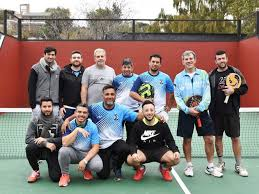
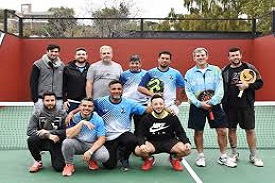
Centrando imagenes

diff --git a/styles/nosotros.css b/styles/nosotros.css
@@ -9,10 +9,8 @@ body {
 }
 
 .container {
-
   max-width: 960px;
-  margin: 0 auto;
-  margin-top: 60px;
+  margin: 60px auto 0 auto;
   padding: 20px;
   background-color: rgba(0, 146, 204, 0.459);
   border-radius: 10px;
@@ -41,6 +39,23 @@ section p {
 @keyframes fadeIn {
   0% {
     opacity: 0;
+    transform: scale(0.8);
+  }
+  100% {
+    opacity: 1;
+    transform: scale(1);
+  }
+}
+
+@keyframes zoomIn {
+  0% {
+    transform: scale(1);
+  }
+  50% {
+    transform: scale(1.05);
+  }
+  100% {
+    transform: scale(1);
   }
 }
 
@@ -53,13 +68,19 @@ section p {
 }
 
 .media img {
-  animation: fadeIn 1s ease-in-out;
+  width: 200px;
+  height: 200px;
+  object-fit: cover;
   margin: 10px;
+  border-radius: 10px;
+  animation: fadeIn 1s ease-in-out;
+  transition: transform 0.3s ease-in-out, box-shadow 0.3s ease-in-out;
 }
 
 .media img:hover {
+  animation: zoomIn 0.6s ease-in-out;
   transform: scale(1.1);
-  transition: transform 0.3s ease-in-out;
+  box-shadow: 0 4px 8px rgba(0, 0, 0, 0.2);
 }
 
 /* Estilos específicos para la sección Nosotros */
@@ -67,9 +88,9 @@ section p {
   padding: 50px 30px;
   position: relative;
   z-index: 1;
-  color: #030303; /* Cambiar al color de texto principal del proyecto */
-  background-color: #fff; /* Cambiar al color de fondo principal del proyecto */
-  border-top: 30px solid #3498db; /* Cambiar al color de acento del proyecto */
+  color: #030303;
+  background-color: #fff;
+  border-top: 30px solid #3498db;
 }
 
 .nosotros h2 {
@@ -77,18 +98,18 @@ section p {
   font-weight: 800;
   letter-spacing: 2px;
   text-align: center;
-  color: #3498db; /* Cambiar al color de acento del proyecto */
+  color: #3498db;
 }
 
 .nosotros p {
   margin: 10px 0;
-  color: #030303; /* Cambiar al color de texto principal del proyecto */
+  color: #030303;
 }
 
 .nosotros h4 {
   font-size: 1.4rem;
   font-weight: 600;
-  color: #3498db; /* Cambiar al color de acento del proyecto */
+  color: #3498db;
   text-decoration: underline;
   margin: 15px 0;
 }
@@ -122,9 +143,8 @@ section p {
 }
 
 .nosotros > div > figure > img {
-  width: 35%;
-  min-width: 150px;
-  height: 150px;
+  width: 100%;
+  height: auto;
   object-fit: cover;
 }
 
@@ -135,8 +155,8 @@ section p {
   justify-content: space-evenly;
   gap: 15px;
   padding: 30px 0;
-  color: #fff; /* Cambiar al color de texto invertido del proyecto */
-  background-color: #3498db; /* Cambiar al color de acento del proyecto */
+  color: #fff;
+  background-color: #3498db;
 }
 
 .location iframe {
@@ -156,4 +176,50 @@ footer {
   color: #fff;
   text-align: center;
   padding: 10px 0;
+}
+
+/* Estilos responsivos */
+@media (max-width: 768px) {
+  .nosotros > div,
+  .nosotros > div > figure {
+    flex-direction: column;
+    align-items: center;
+  }
+
+  .nosotros figure,
+  .nosotros article {
+    width: 100%;
+  }
+
+  .nosotros > div > figure > img {
+    width: 100%;
+    height: auto;
+  }
+
+  .media img {
+    width: 100%;
+    max-width: 300px;
+    height: auto;
+  }
+}
+
+@media (max-width: 576px) {
+  .container {
+    padding: 15px;
+  }
+
+  .details {
+    flex-direction: column;
+  }
+}
+
+@media (min-width: 769px) and (max-width: 1024px) {
+  .container {
+    max-width: 720px;
+  }
+
+  .nosotros figure,
+  .nosotros article {
+    width: 100%;
+  }
 }

diff --git a/nosotros.html b/nosotros.html
@@ -17,7 +17,7 @@
   <link rel="preconnect" href="https://fonts.gstatic.com" crossorigin>
   <link href="https://fonts.googleapis.com/css2?family=Lato:ital,wght@0,100;0,300;0,400;0,700;0,900;1,100;1,300;1,400;1,700;1,900&family=Raleway:ital,wght@0,100..900;1,100..900&display=swap" rel="stylesheet">
   <script src="https://kit.fontawesome.com/308f84be54.js" crossorigin="anonymous"></script>
-  <title>APDA - Padél</title>
+  <title>APDA - Pádel</title>
 </head>
 
 <body>
@@ -123,11 +123,7 @@
             <img src="./assets/imagenes/06.jpeg" class="card-img-top" alt="Imagen 6">
           </div>
         </div>
-        <div class="col-md-4 mb-4">
-          <div class="card">
-            <img src="./assets/imagenes/07.jpeg" class="card-img-top" alt="Imagen 7">
-          </div>
-        </div>
+
         <!-- Puedes agregar más columnas y tarjetas para más imágenes -->
       </div>
     </div>
